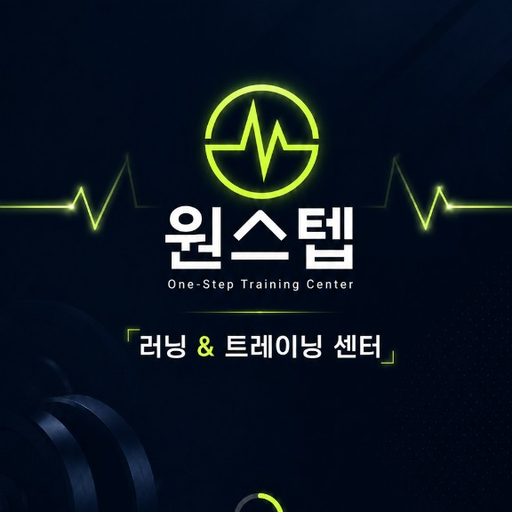
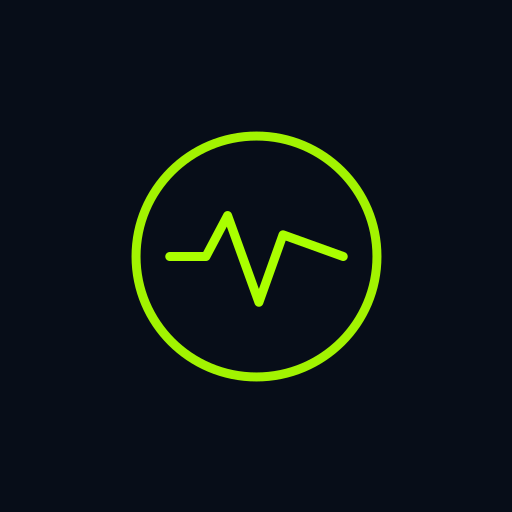
구글 캘린더 연동

diff --git a/app/layout.tsx b/app/layout.tsx
@@ -33,14 +33,14 @@ export const metadata: Metadata = {
   formatDetection: {
     telephone: false,
   },
-  icons: {
+    icons: {
     icon: [
-      { url: '/icons/icon-32.png?v=3', sizes: '32x32', type: 'image/png' },
-      { url: '/icons/icon-192.png?v=3', sizes: '192x192', type: 'image/png' },
-      { url: '/icons/icon-512.png?v=3', sizes: '512x512', type: 'image/png' },
+      { url: '/icons/icon-32.png?v=4', sizes: '32x32', type: 'image/png' },
+      { url: '/icons/icon-192.png?v=4', sizes: '192x192', type: 'image/png' },
+      { url: '/icons/icon-512.png?v=4', sizes: '512x512', type: 'image/png' },
     ],
     apple: [
-      { url: '/icons/apple-icon.png?v=3', sizes: '180x180', type: 'image/png' },
+      { url: '/icons/apple-icon.png?v=4', sizes: '180x180', type: 'image/png' },
     ],
   },
 }

diff --git a/app/manifest.ts b/app/manifest.ts
@@ -6,7 +6,7 @@ export default function manifest(): MetadataRoute.Manifest {
 
   return {
     id: `/?pwa=v${PWA_ASSET_VERSION}`,
-    name: '원스텝',
+    name: ' ',
     short_name: '원스텝',
     description: 'OneStep Training Center',
     start_url: `/?pwa=v${PWA_ASSET_VERSION}`,

diff --git a/lib/pwa-splash-links.ts b/lib/pwa-splash-links.ts
@@ -1,5 +1,5 @@
 /** iOS PWA — 픽셀 크기·media 쿼리가 정확해야 기본 스플래시 대신 커스텀 이미지 사용 */
-export const PWA_ASSET_VERSION = 3
+export const PWA_ASSET_VERSION = 4
 
 export const IOS_PWA_SPLASH_SCREENS = [
   {
